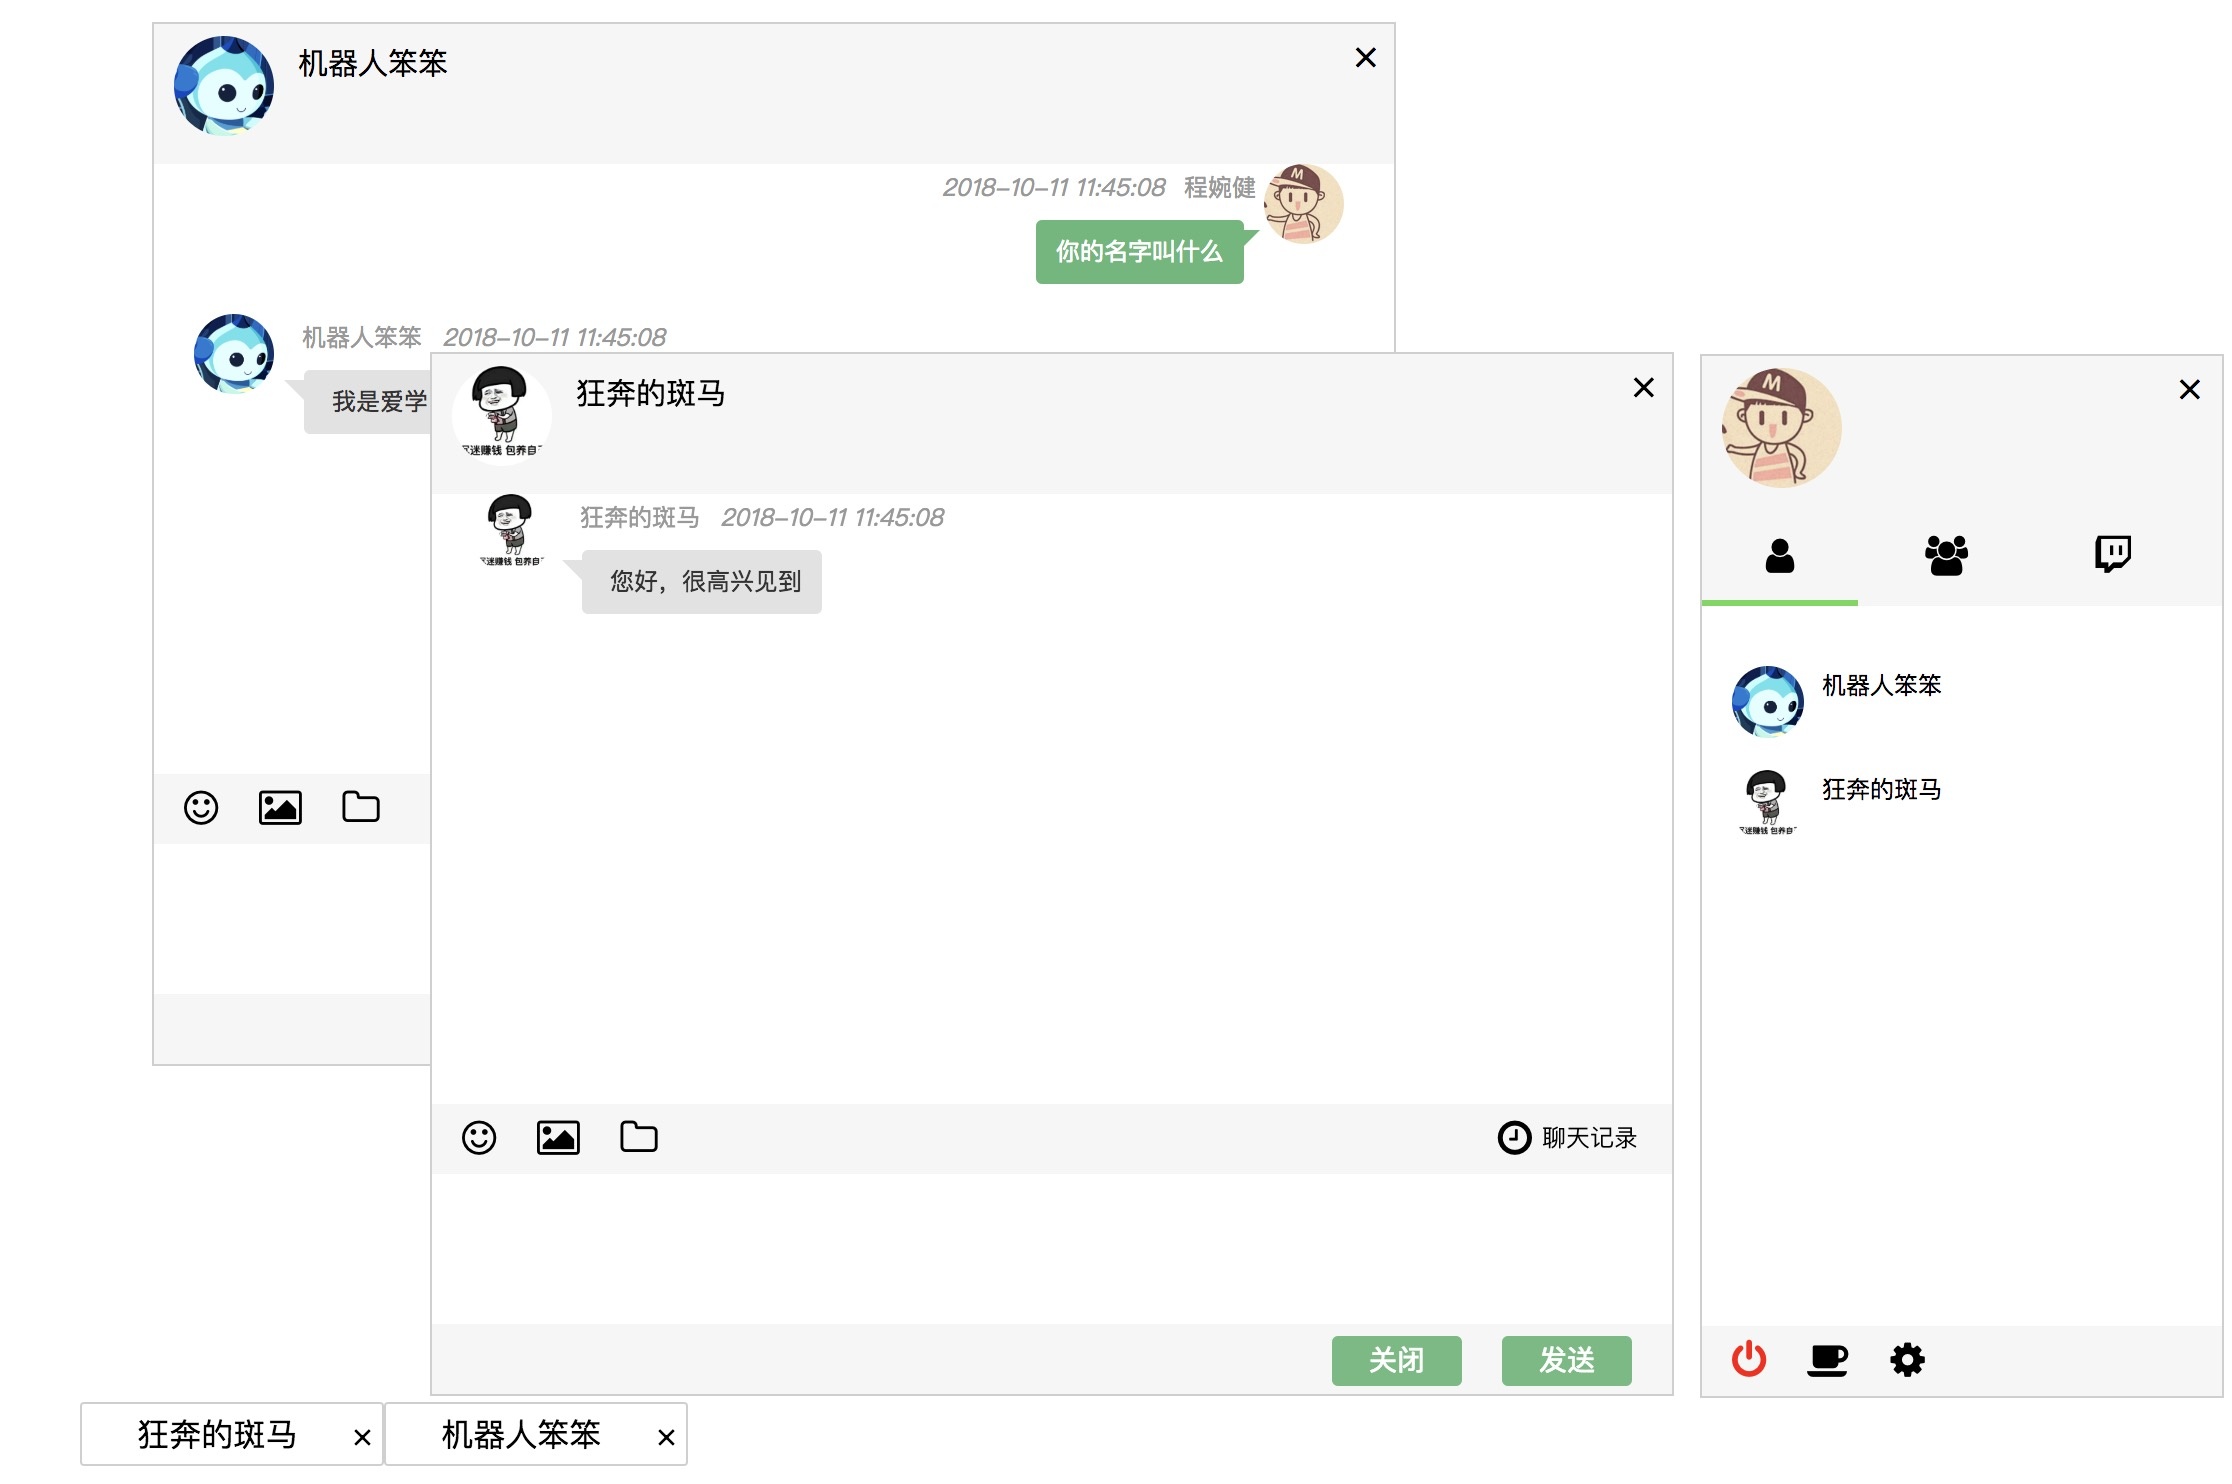
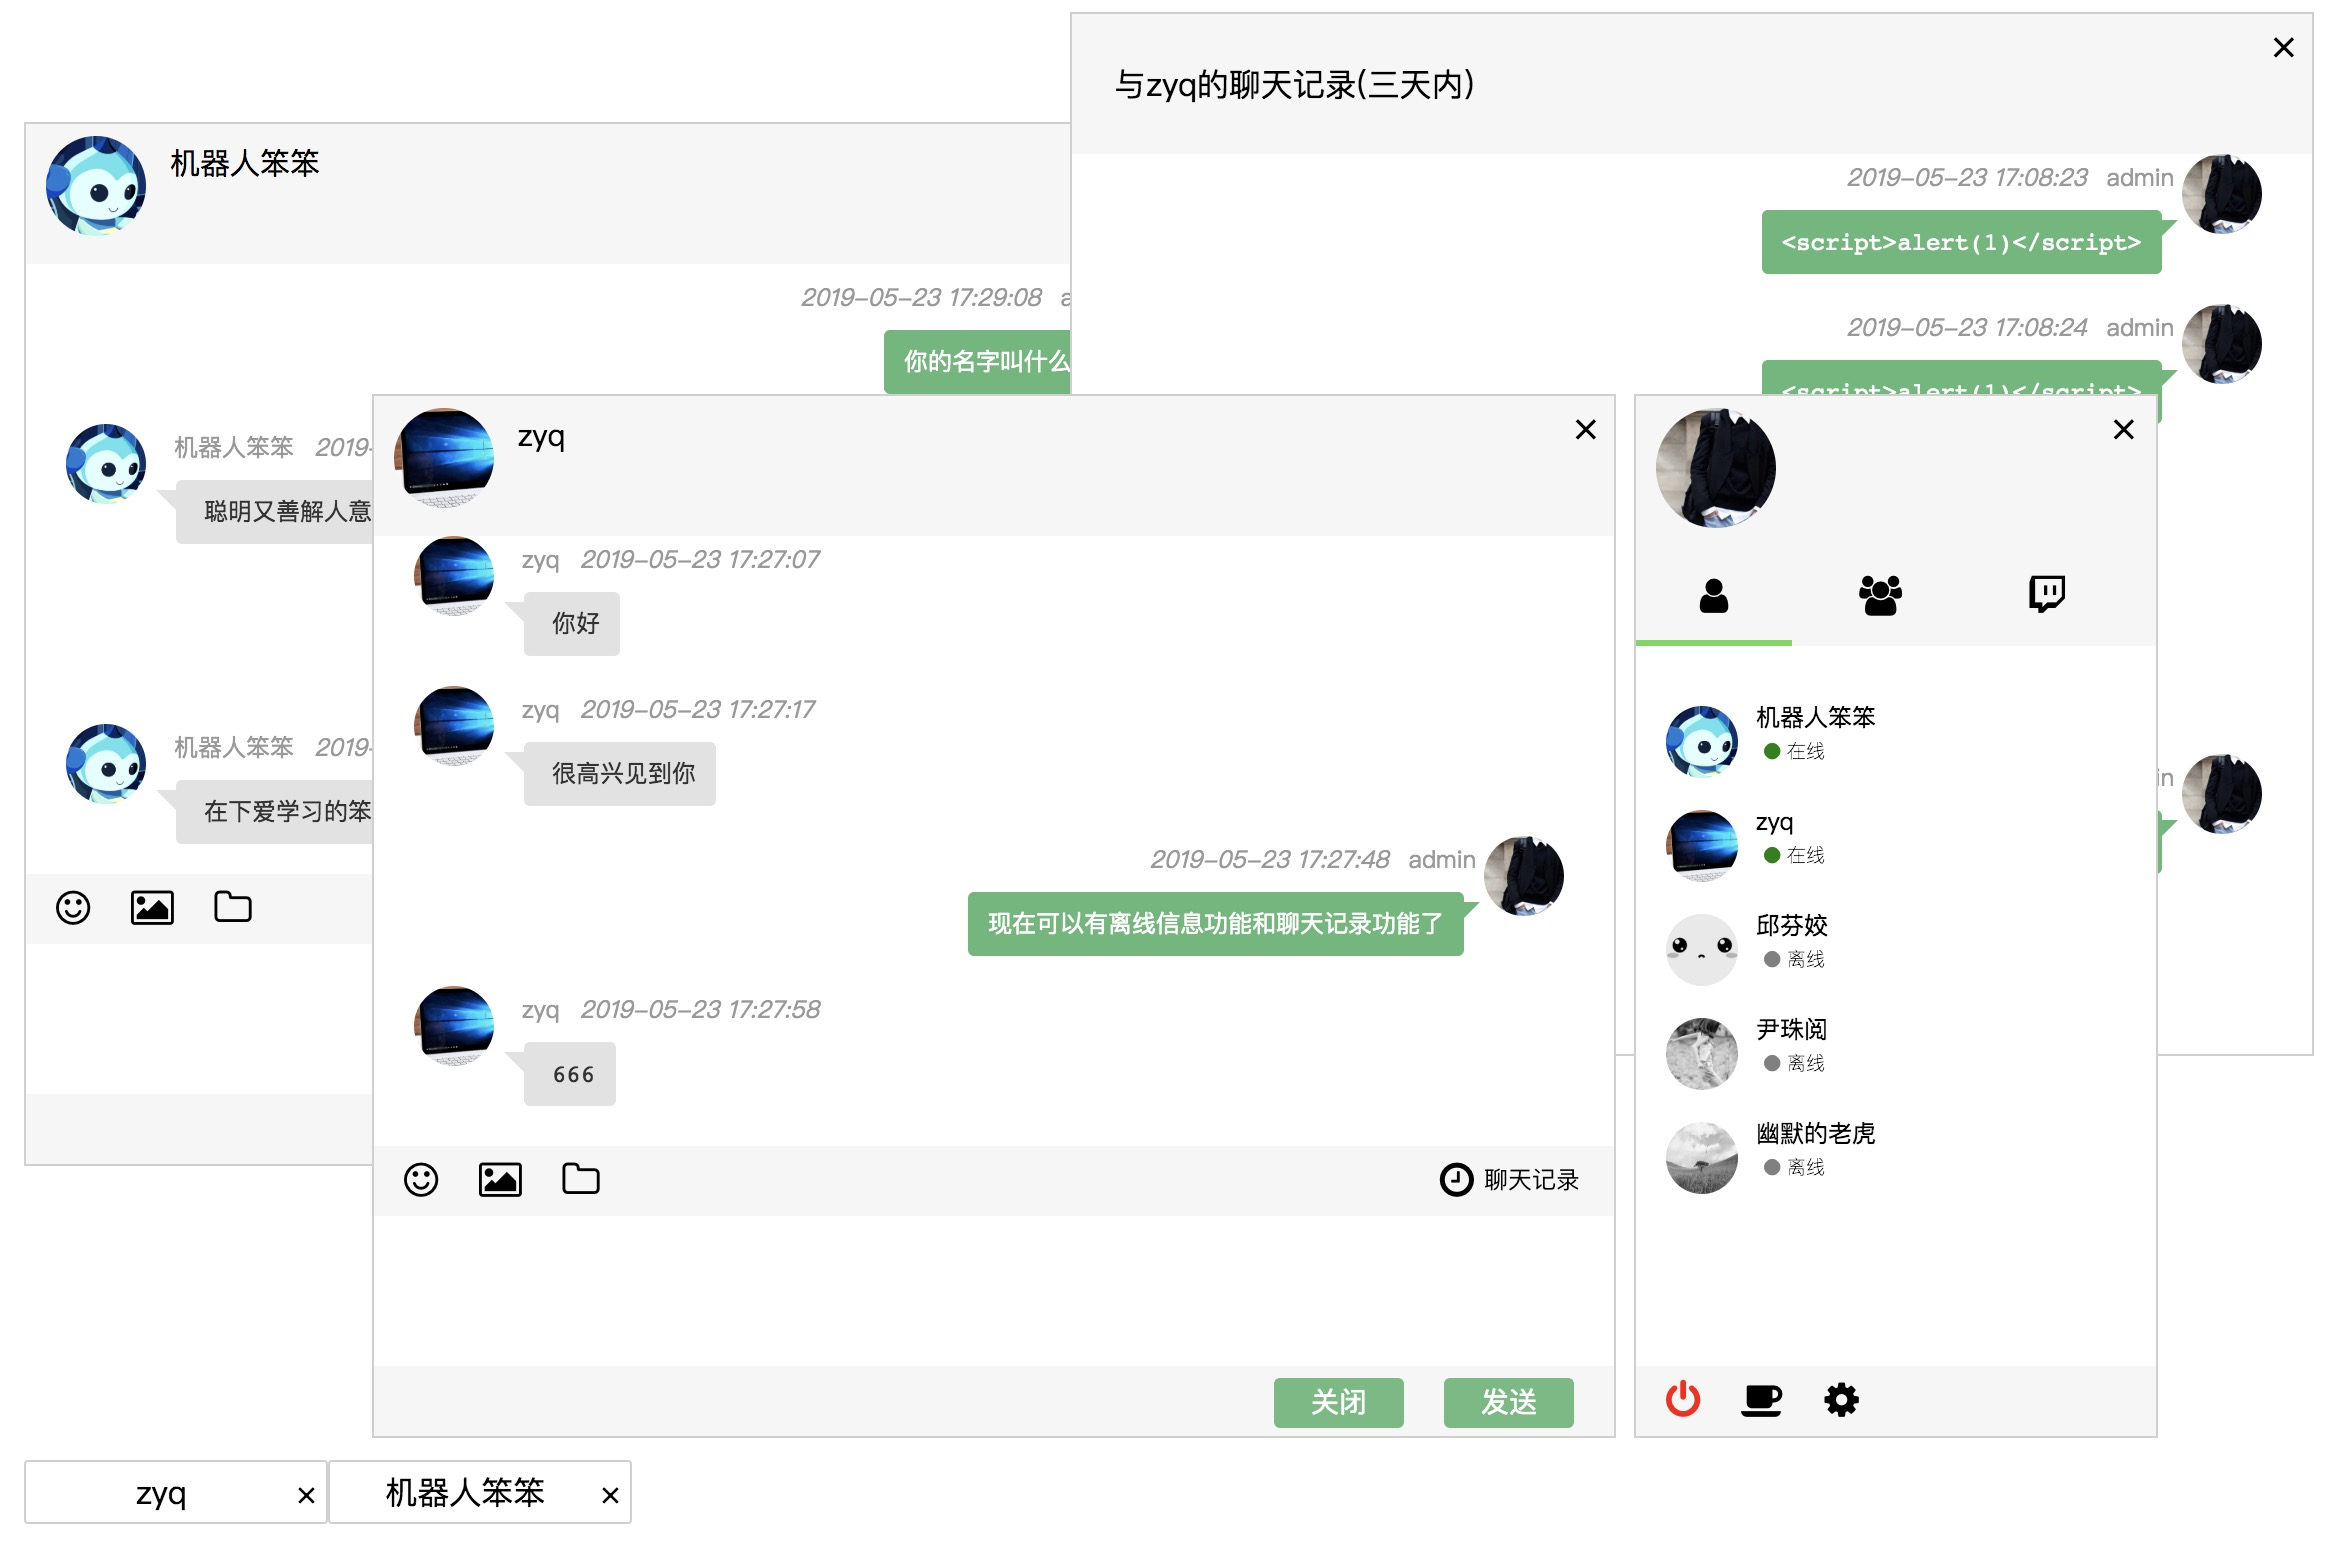
readme

diff --git a/readme.md b/readme.md
@@ -32,6 +32,6 @@ Laravel5.6 + Swoole
 - [ ] 最近聊天 -- 未完成
 - [x] 聊天对话框切换 -- 完成
 - [x] 聊天机器人 -- 完成 ✨✨🎉🎉
-- [ ] 离线消息 -- 未完成
-- [ ] 表情功能 -- 未完成
+- [x] 离线消息 -- 完成
+- [ ] 表情功能 -- 未完成 (20190523)
 - [x] 聊天记录 -- 完成(20190520)
